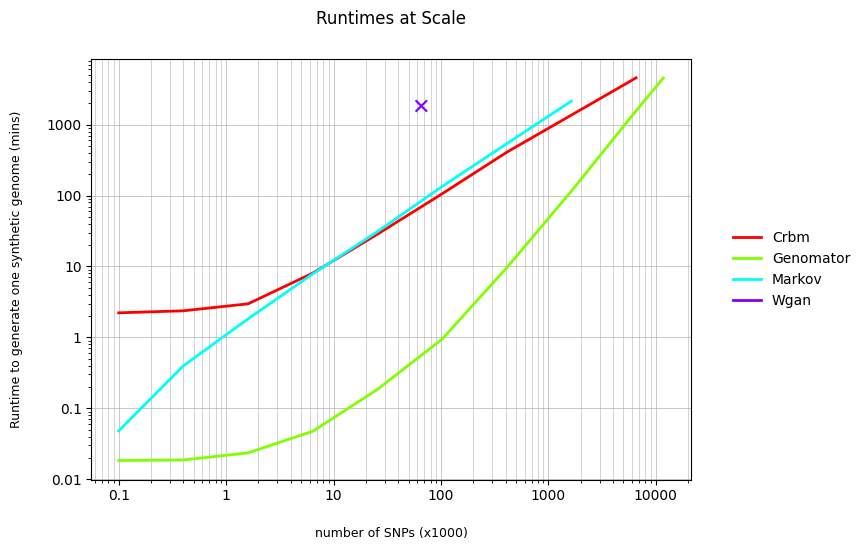
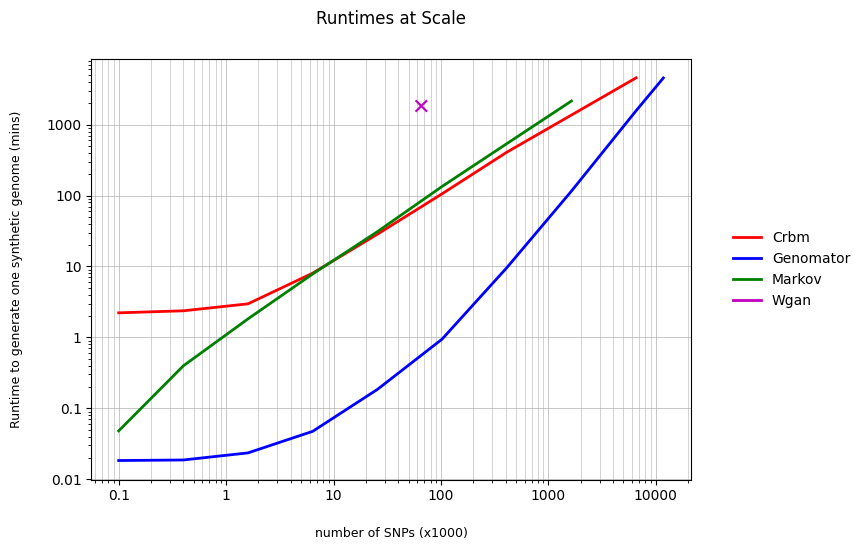
updating runtime graph production

diff --git a/experiment/experiment/runtime_scripts/produce_graph.py b/experiment/experiment/runtime_scripts/produce_graph.py
@@ -5,8 +5,8 @@ from functools import reduce
 from matplotlib.ticker import FuncFormatter
 
 base_colours = ['r','b','g','m','c','k','y'] 
-base_colours = ['#ffb840', '#E4002B', '#6d2382', '#008165']
-base_colours = ['#ff0000', '#81ff00', '#00fff8', '#8100ff']
+#base_colours = ['#ffb840', '#E4002B', '#6d2382', '#008165']
+#base_colours = ['#ff0000', '#81ff00', '#00fff8', '#8100ff']
 
 with open("runtime_results.txt","r") as f:
     data = pd.read_csv(f)
